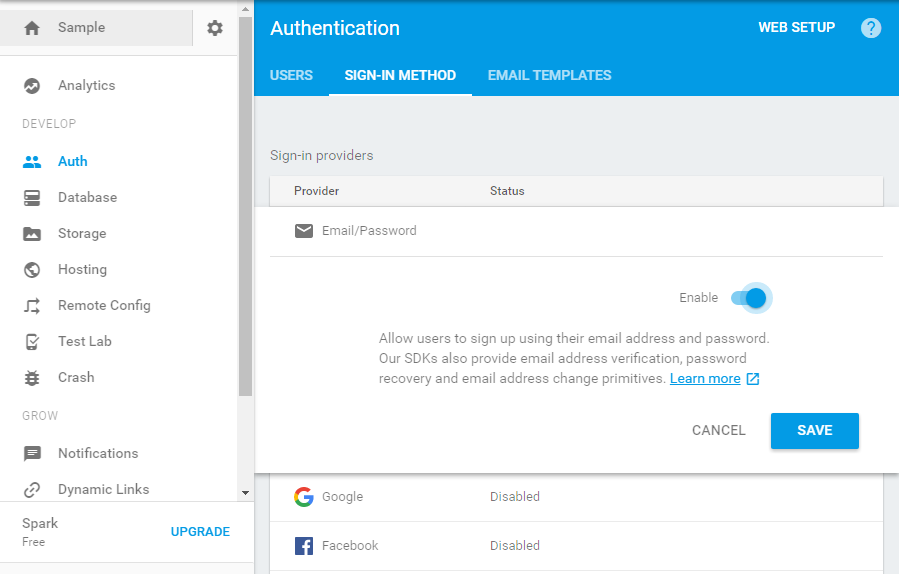
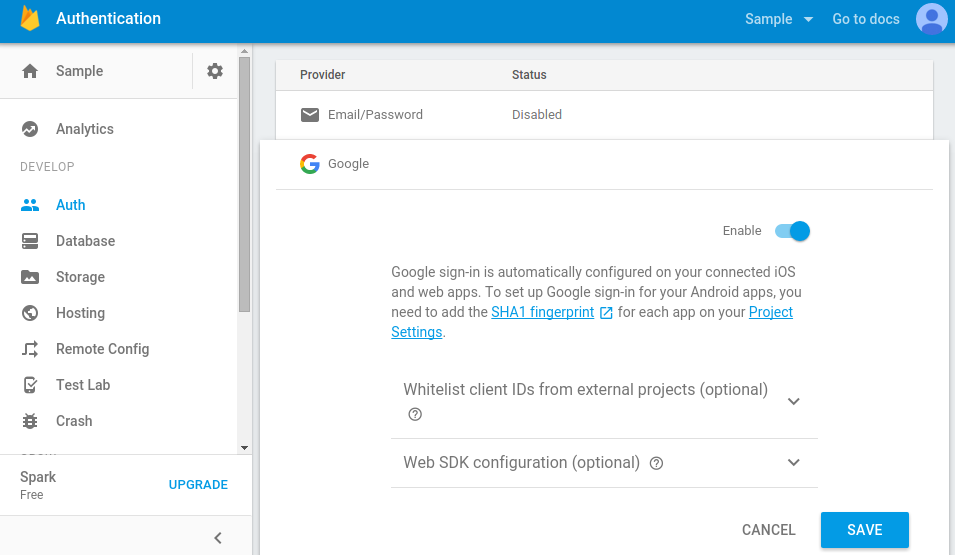
changed screenshots and added Google auth

diff --git a/database/README.md b/database/README.md
@@ -19,8 +19,8 @@ Getting Started
 - Copy the initialization snippet into the index.html file by clicking the red HTML.
 ![Alt text](/database/pics/snippet.png?raw=true "Snippet")
 - The snippet should be placed in the `<head>` section of `index.html`.
-- Enable auth in the **Auth > SIGN IN METHOD** tab.
-![Alt text](/database/pics/enable.png?raw=true "Enable auth")
+- Enable Google auth in the **Auth > SIGN IN METHOD** tab.
+![Alt text](/database/pics/enable.png?raw=true "Enable google auth")
 - Run `firebase serve` using the Firebase CLI tool to launch a local server.
 
 Support
